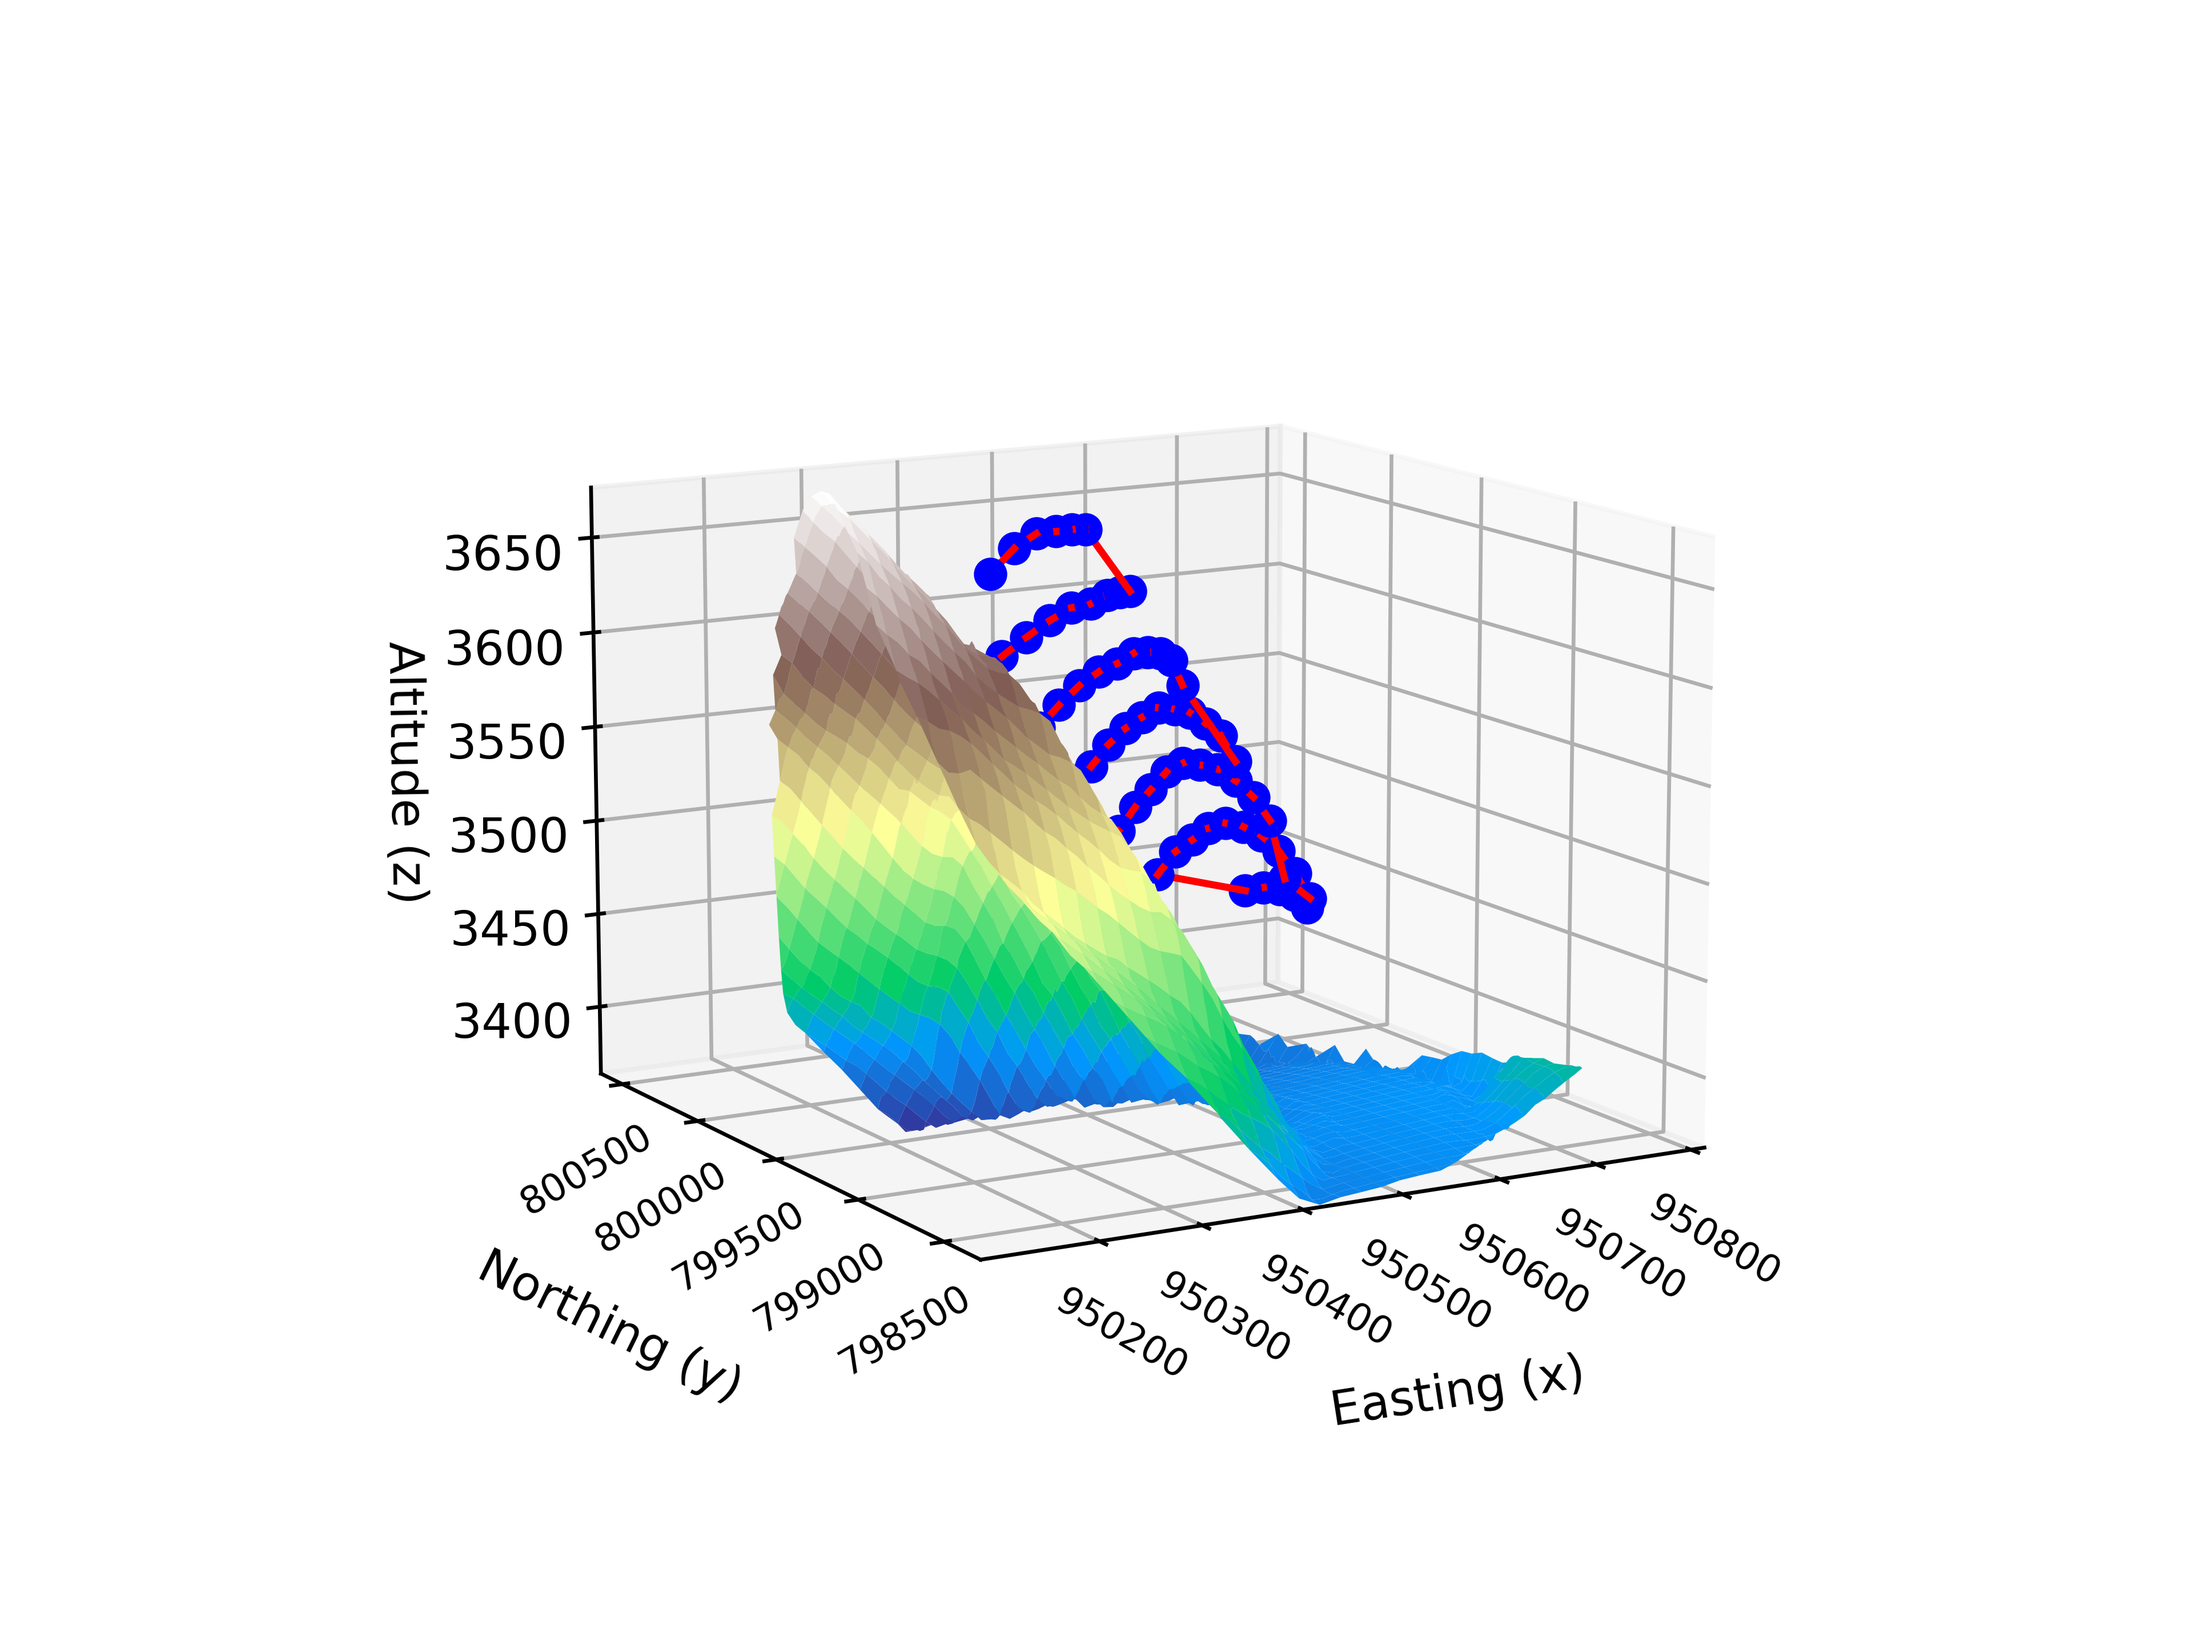
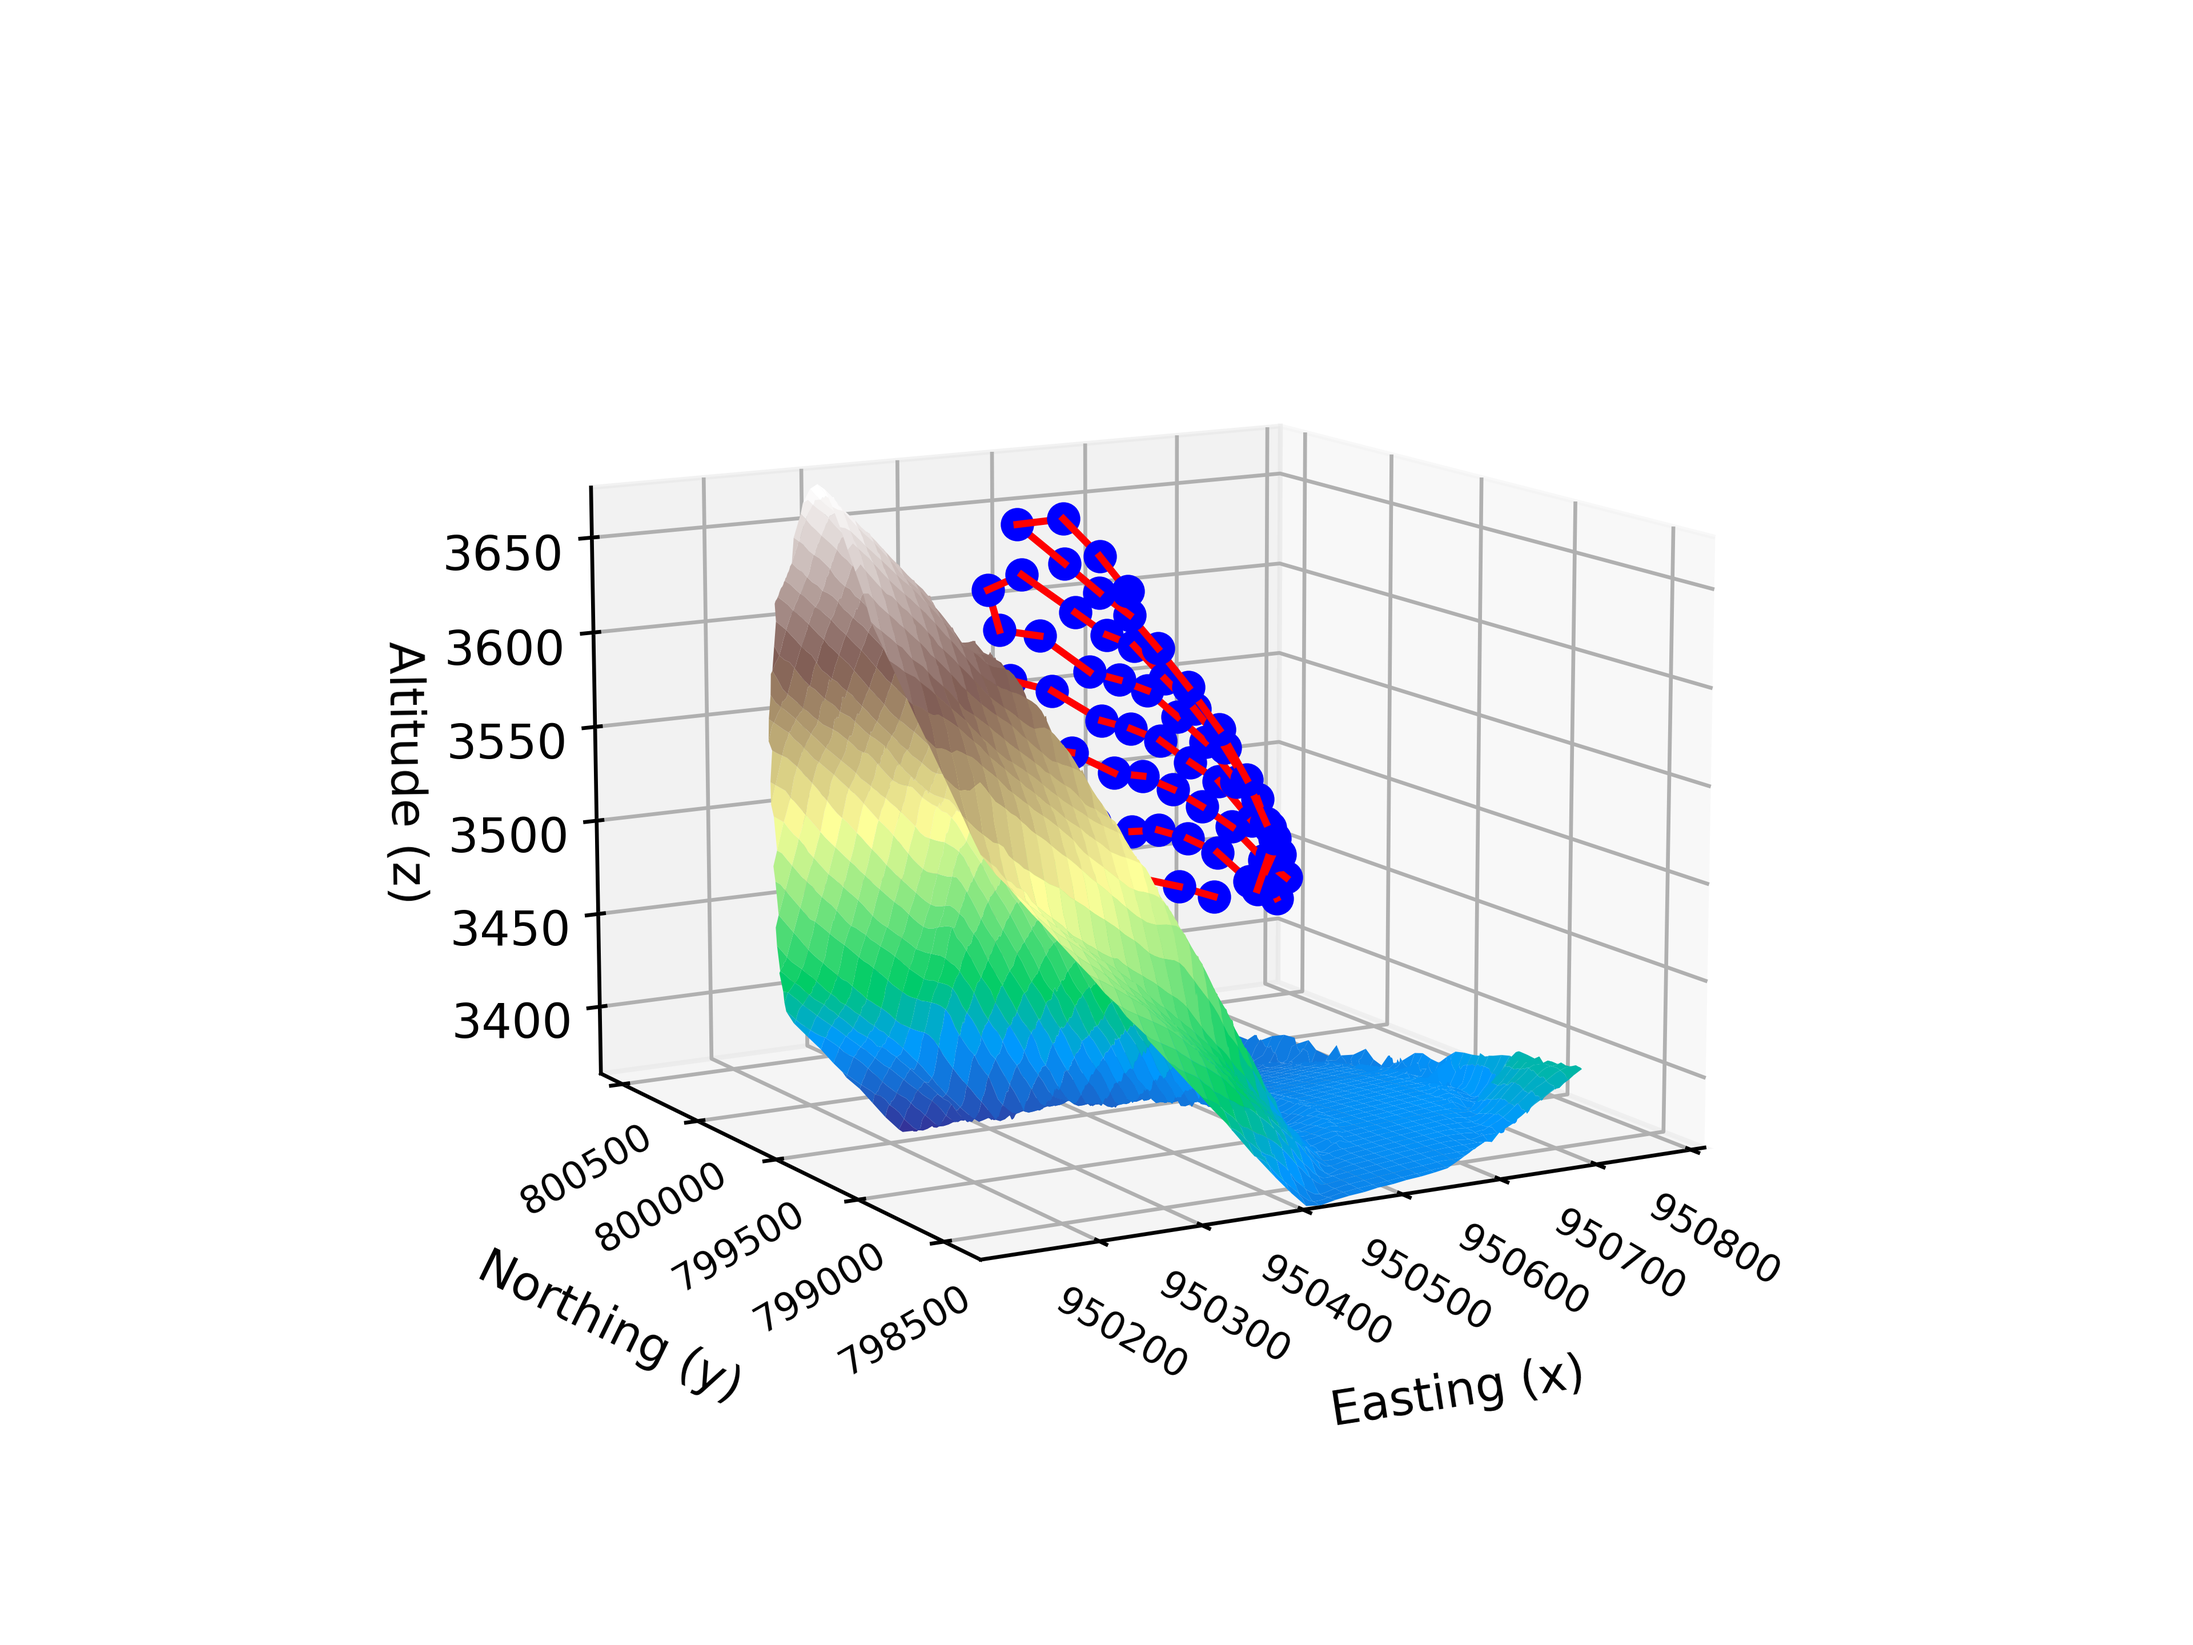
Fix artifacts from terrain resultion independence

diff --git a/generate_waypoints.py b/generate_waypoints.py
@@ -105,28 +105,28 @@ class WaypointGenerator:
 
 
 class WaypointPlotter(WaypointGenerator):
-    def __init__(self, doc: str, plot_surface=False, lim=None, name=None, x_ratio=1, y_ratio=1) -> None:
+    def __init__(self, doc: str, plot_surface=False, lim=None, name=None) -> None:
         super().__init__(doc)
         
-        # Plot terrain
-
-        # Create new variables to fix terrain appearance
+        # Create new variables to make terrain appearance independent of waypoints
         x = numpy.arange(self.spacing[:, 0].min(), self.spacing[:, 0].max(), SURFACE_RES, dtype=numpy.float64)
         y = numpy.arange(self.spacing[:, 1].min(), self.spacing[:, 1].max(), SURFACE_RES, dtype=numpy.float64)
         x, y = numpy.meshgrid(x, y)
-
         z = scipy.interpolate.griddata(self.spacing, self.values, (x, y), method="linear")
 
-        # Configure graph
-        graph = plt.axes(projection="3d")
+        # Configure graph axes and labels
+        graph = plt.axes(projection="3d", computed_zorder=False)
         graph.set_xlabel("Easting (x)", labelpad=11)
         graph.set_ylabel("Northing (y)", labelpad=11)
         graph.set_zlabel("Altitude (z)")
-
         graph.tick_params(axis="x", pad=-1, labelsize=8, labelrotation=-30)
         graph.tick_params(axis="y", pad=-1, labelsize=8, labelrotation=30)
 
         graph.view_init(elev=12, azim=-120)
+
+        # Plot terrain
+        if plot_surface:
+            graph.plot_surface(x, y, z, linewidth=0, cmap=plt.cm.terrain)
 
         # Set limits to fix bound
         if lim is not None:
@@ -134,15 +134,11 @@ class WaypointPlotter(WaypointGenerator):
             graph.set_ylim(lim[1])
             graph.set_zlim(lim[2])
 
-        if plot_surface:
-            graph.plot_surface(x, y, z, linewidth=0, cmap=plt.cm.terrain)
-
         # Plot waypoints
         last = (self.waypoints[0][0][0], self.waypoints[0][0][1], self.waypoints[0][0][2])
 
-        # To improve terrain resolution, remove a lot of waypoints
-        for row in self.waypoints[::x_ratio]:
-            for point in row[::y_ratio]:
+        for row in self.waypoints:
+            for point in row:
                 plt.plot([point[0], last[0]], [point[1], last[1]], [point[2], last[2]], "r")
                 last = (point[0], point[1], point[2])
                 plt.plot(*last, "bo")
@@ -157,5 +153,5 @@ class WaypointPlotter(WaypointGenerator):
 if __name__ == "__main__":
     bounds = [(950101, 950800), (798340, 800600), (3370, 3670)]
 
-    a = WaypointPlotter(FILE, True, bounds, "a", 3, 7)
-    b = WaypointPlotter(FILE, False, bounds, "b", 3, 7)
+    a = WaypointPlotter(FILE, True, bounds, "a")
+    b = WaypointPlotter(FILE, False, bounds, "b")
